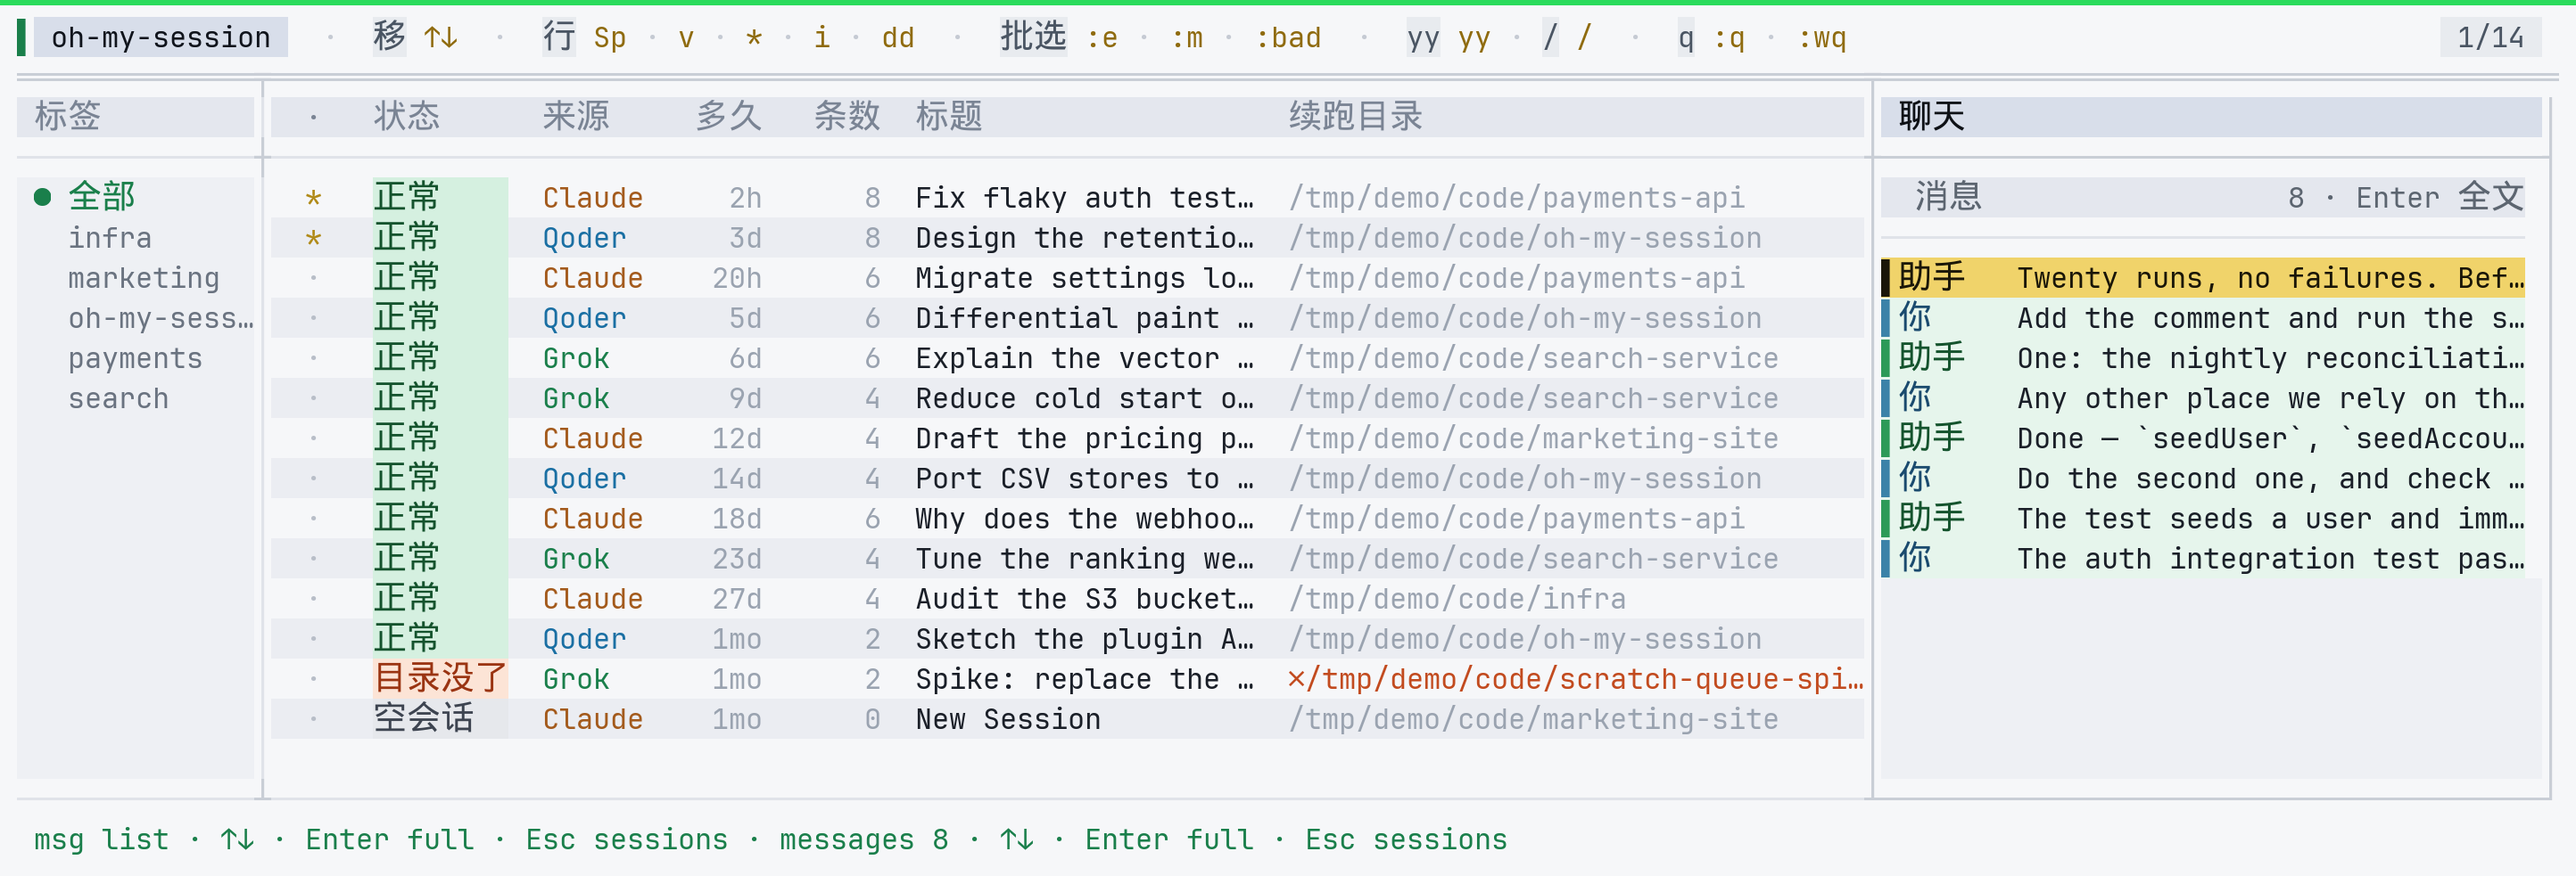
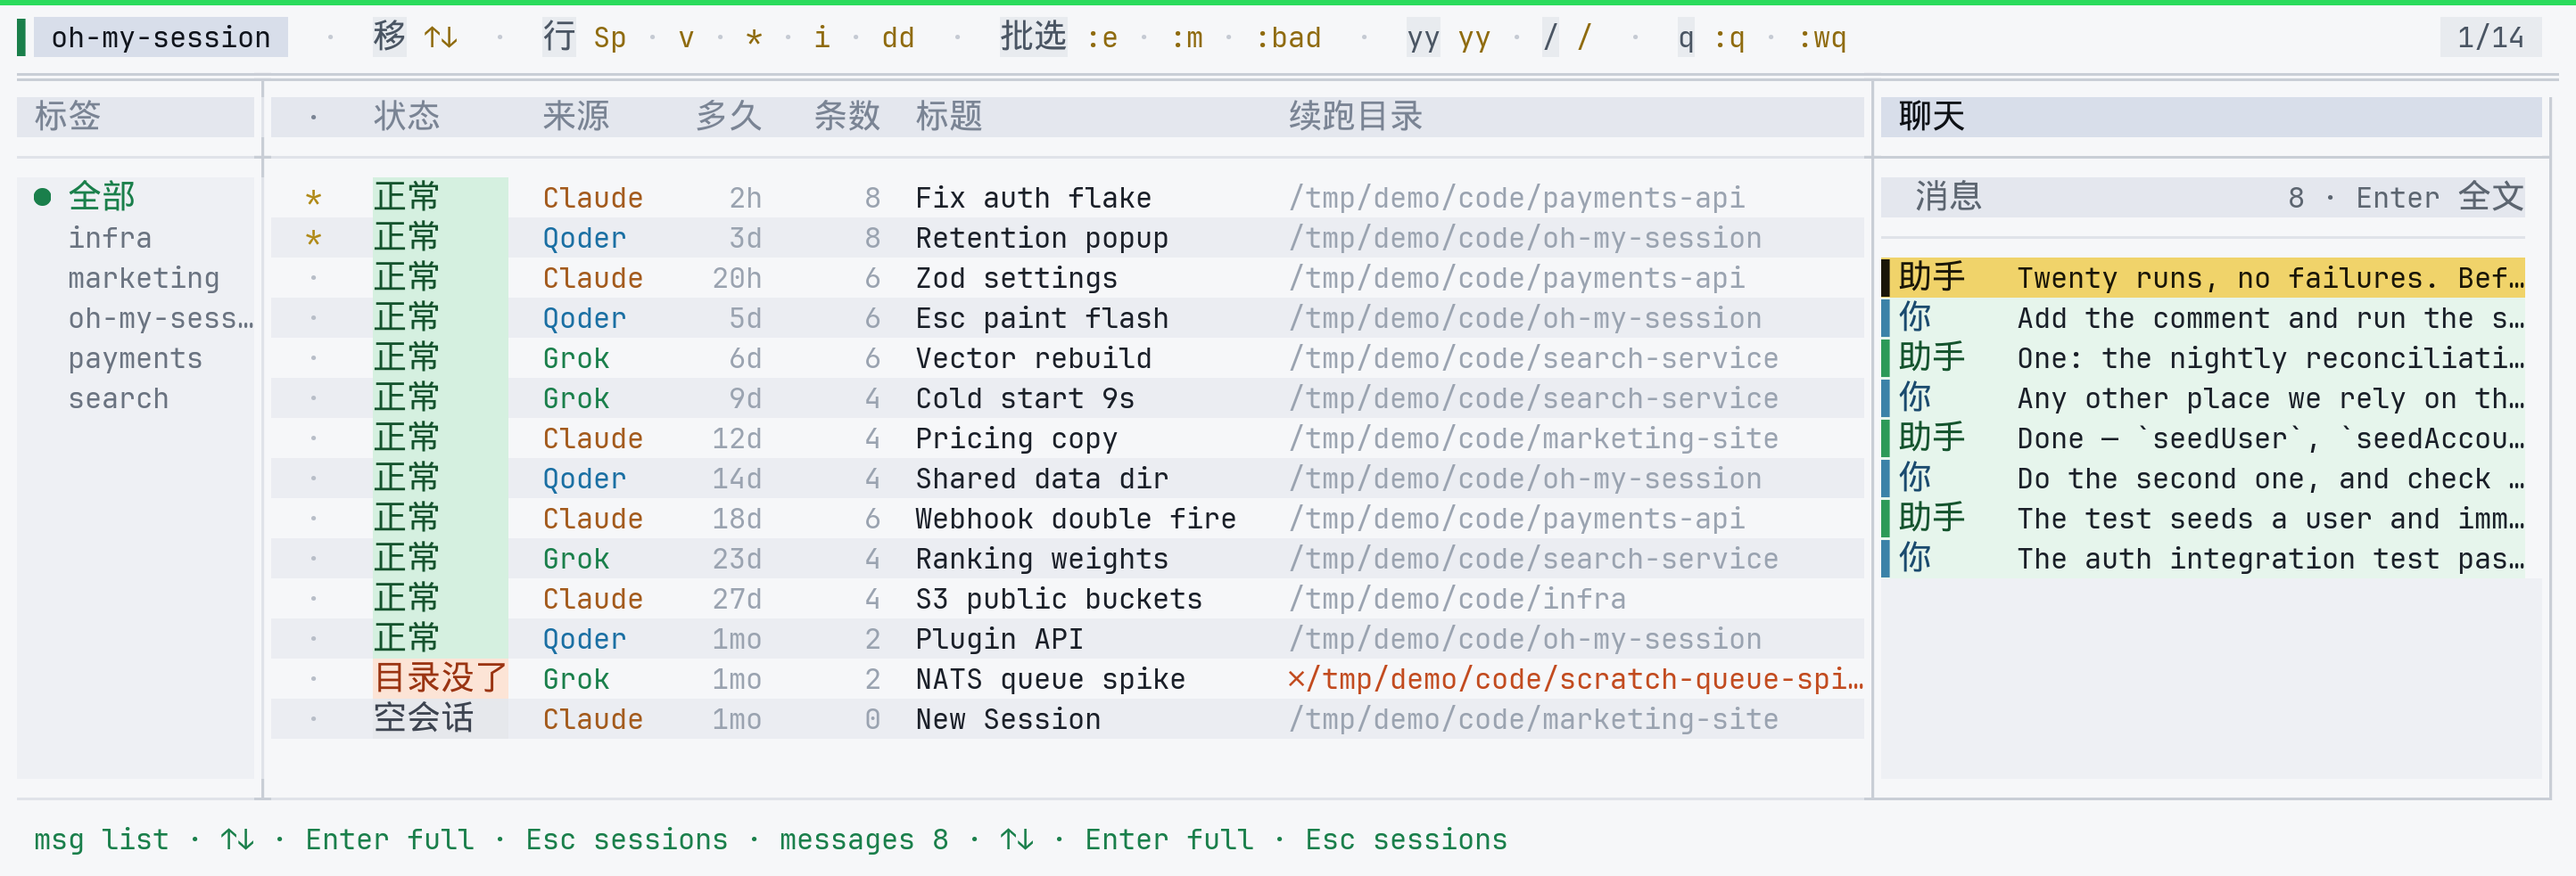
fix: rename caret move, distinct select mark, README polish
- Rename mode: left/right (and Home/End) move caret in TITLE
- Multi-select / visual mark uses # so pin * is unambiguous
- Shorter demo titles, /resume copy, Chinese README screenshots

Changed region(s): [[0.3428, 0.4883, 0.4986, 0.7935], [0.3428, 0.2136, 0.4986, 0.4578]]

diff --git a/src/tui/rawApp.ts b/src/tui/rawApp.ts
@@ -83,7 +83,7 @@ export interface RawTuiOptions {
  * share remaining width with caps so TITLE does not starve the path.
  */
 const LC = {
-  mark: 2, // cursor ▌ + multi *
+  mark: 2, // cursor ▌ + multi # (not * — * is pin/star only)
   star: 3, // * / · cell (ASCII-safe; ★/☆ missing in many mono fonts)
   /** Gaps (min floors, display cols) */
   gs: 1, // star → STATUS (icon column, 1 is enough)
@@ -429,6 +429,8 @@ export async function runRawTui(
   /** i — rename current session title (insert mode) */
   let renameMode = false;
   let renameBuf = "";
+  /** Cursor index into [...renameBuf] (grapheme units via string spread). */
+  let renamePos = 0;
   /** Title when edit started — used only if empty commit */
   let renameOrig = "";
   let cursor = 0;
@@ -630,32 +632,58 @@ export async function runRawTui(
   }
 
   /**
-   * TITLE cell while renaming: show buffer + caret in-cell (not footer).
-   * Keeps the caret end visible when text is wider than the column.
+   * TITLE cell while renaming: buffer with in-cell caret at renamePos.
+   * Scrolls so the caret stays visible when text is wider than the column.
    */
   function titleRenameCell(width: number): string {
     const caret = "▌";
-    const text = renameBuf.replace(/\s+/g, " ");
-    const full = text + caret;
+    const chars = [...renameBuf];
+    const pos = Math.max(0, Math.min(renamePos, chars.length));
+    const full =
+      chars.slice(0, pos).join("") + caret + chars.slice(pos).join("");
     if (displayWidth(full) <= width) return padEndWidth(full, width);
 
-    // Keep right side (where caret is); optional leading …
-    let acc = caret;
-    let w = displayWidth(caret);
-    const chars = [...text];
-    for (let i = chars.length - 1; i >= 0; i--) {
-      const ch = chars[i]!;
-      const cw = displayWidth(ch);
-      if (w + cw > width - 1) break;
-      acc = ch + acc;
-      w += cw;
+    // Overflow: grow a window around the caret (prefer keeping caret visible)
+    let left: string[] = [];
+    let right: string[] = [];
+    let used = displayWidth(caret);
+    let li = pos - 1;
+    let ri = pos;
+    // Prefer chars left of caret first (typing at end keeps caret at right edge)
+    while (li >= 0) {
+      const d = displayWidth(chars[li]!);
+      if (used + d > width) break;
+      left.unshift(chars[li]!);
+      used += d;
+      li--;
     }
-    if (displayWidth(acc) < width) {
-      // room for ellipsis prefix when truncated from left
-      const room = width - displayWidth(acc);
-      if (room >= 1) acc = "…" + acc;
+    while (ri < chars.length) {
+      const d = displayWidth(chars[ri]!);
+      if (used + d > width) break;
+      right.push(chars[ri]!);
+      used += d;
+      ri++;
     }
-    return padEndWidth(acc, width);
+    // If nothing fit on the left but we skipped left chars, mark with …
+    let s = left.join("") + caret + right.join("");
+    if (li >= 0) {
+      // free 1 col for leading …
+      while (left.length && displayWidth("…" + left.join("") + caret + right.join("")) > width) {
+        left.shift();
+      }
+      const body = left.join("") + caret + right.join("");
+      s = displayWidth("…" + body) <= width ? "…" + body : body;
+    } else if (ri < chars.length) {
+      while (
+        right.length &&
+        displayWidth(left.join("") + caret + right.join("") + "…") > width
+      ) {
+        right.pop();
+      }
+      const body = left.join("") + caret + right.join("");
+      s = displayWidth(body + "…") <= width ? body + "…" : body;
+    }
+    return padEndWidth(s, width);
   }
 
   function buildListRow(abs: number, isCursor: boolean): string {
@@ -668,15 +696,15 @@ export async function runRawTui(
     const isMulti = multiSelect.has(sessionKey(s));
     const starred = isStarred(s);
     const editing = renameMode && isCursor;
-    // mark: cursor + multi only (star has its own column)
+    // mark: cursor ▌ + multi # only (* reserved for pin/star column)
     const markPlain = isCursor
       ? isMulti
-        ? "▌*"
+        ? "▌#"
         : "▌ "
       : isMulti
-        ? " *"
+        ? " #"
         : "  ";
-    // star: * filled / · empty — avoid ★/☆ (missing glyph → tofu in many mono faces)
+    // pin/star: * filled / · empty — avoid ★/☆ (missing glyph → tofu in many mono faces)
     const starPlain = padEndWidth(starred ? "*" : "·", LC.star);
     const gapStar = " ".repeat(LC.gs);
     const statusPlain = padEndWidth(healthLabel(h), LC.status);
@@ -2786,6 +2814,7 @@ export async function runRawTui(
     renameMode = true;
     renameOrig = s.title;
     renameBuf = s.title;
+    renamePos = [...renameBuf].length; // caret at end
     statusLine = "";
     paintRenameLive();
   }
@@ -2800,6 +2829,7 @@ export async function runRawTui(
     const title = renameBuf.replace(/\s+/g, " ").trim();
     renameMode = false;
     renameBuf = "";
+    renamePos = 0;
     renameOrig = "";
 
     if (!s) {
@@ -3128,13 +3158,61 @@ export async function runRawTui(
           exitRenameKeep();
           return;
         }
+        // ← / → move caret (and Home / End)
+        if (key.name === "left") {
+          renamePos = Math.max(0, renamePos - 1);
+          paintRenameLive();
+          return;
+        }
+        if (key.name === "right") {
+          renamePos = Math.min([...renameBuf].length, renamePos + 1);
+          paintRenameLive();
+          return;
+        }
+        if (key.name === "home") {
+          renamePos = 0;
+          paintRenameLive();
+          return;
+        }
+        if (key.name === "end") {
+          renamePos = [...renameBuf].length;
+          paintRenameLive();
+          return;
+        }
         if (key.name === "backspace") {
-          renameBuf = renameBuf.slice(0, -1);
+          if (renamePos > 0) {
+            const chars = [...renameBuf];
+            chars.splice(renamePos - 1, 1);
+            renameBuf = chars.join("");
+            renamePos--;
+          }
+          paintRenameLive();
+          return;
+        }
+        // Forward delete (fn-backspace / Del)
+        if (key.name === "delete") {
+          const chars = [...renameBuf];
+          if (renamePos < chars.length) {
+            chars.splice(renamePos, 1);
+            renameBuf = chars.join("");
+          }
           paintRenameLive();
           return;
         }
         if (key.ctrl && key.name === "u") {
           renameBuf = "";
+          renamePos = 0;
+          paintRenameLive();
+          return;
+        }
+        // Ctrl-A / Ctrl-E — line start / end (readline habit)
+        if (key.ctrl && (key.name === "a" || str === "\x01")) {
+          renamePos = 0;
+          paintRenameLive();
+          return;
+        }
+        if (key.ctrl && (key.name === "e" || str === "\x05")) {
+          renamePos = [...renameBuf].length;
           paintRenameLive();
           return;
         }
@@ -3142,7 +3220,11 @@ export async function runRawTui(
           return;
         }
         if (str && !key.ctrl && !key.meta && str >= " ") {
-          renameBuf += str;
+          const chars = [...renameBuf];
+          const insert = [...str];
+          chars.splice(renamePos, 0, ...insert);
+          renameBuf = chars.join("");
+          renamePos += insert.length;
           paintRenameLive();
           return;
         }

diff --git a/src/lib/i18n.ts b/src/lib/i18n.ts
@@ -336,9 +336,9 @@ export function helpGroups(): ReadonlyArray<{
         title: t("help.g.row"),
         keys: [
           ["Enter", "右侧打开聊天（近→远）"],
-          ["Space", "选中 / 取消当前行"],
-          ["v", "可视选择（↑↓ 扩展范围，再按 v 结束）"],
-          ["*", "置顶 / 取消 — 阻止 dd"],
+          ["Space", "选中 / 取消当前行（行首 #）"],
+          ["v", "可视选择（↑↓ 扩展范围，再按 v 结束；行首 #）"],
+          ["*", "置顶 / 取消（* 列）— 阻止 dd"],
           ["i", "内联改标题（写入本地 CSV）"],
           ["dd", "标记删除（置顶跳过；:wq 执行）"],
           ["u", "撤销最近删除标记"],

diff --git a/d/ui-tui.md b/d/ui-tui.md
@@ -65,8 +65,8 @@ gutter 列画 │；表头行接缝用 ┬
 
 | 列 | 显示宽 | 间距下限（后） | 内容 |
 |----|--------|----------------|------|
-| mark | 2 | — | 光标 `▌`；片选 `*` |
-| star | 3 | 1 | 星标 `*` / `·`（不用 ★/☆，避免等宽字体缺字成方框） |
+| mark | 2 | — | 光标 `▌`；选中 / 可视片选 `#`（不用 `*`，避免与置顶混淆） |
+| star | 3 | 1 | 置顶 `*` / 未置顶 `·`（不用 ★/☆，避免等宽字体缺字成方框） |
 | 状态 | 8 | **2** | 色块：OK / Empty / Missing |
 | 来源 | 6 | **2** | `Grok` / `Qoder` / … |
 | 多久 | 5 | **2** | 右对齐：`2s` `30m` `5d` `1mo` |
@@ -145,9 +145,9 @@ gutter 列画 │；表头行接缝用 ┬
 | `↑↓` | 下 / 上（焦点在列表 / 标签栏 / 聊天详情时各自滚动） |
 | **`Enter`** | **打开对话**：右侧栏显示该会话 transcript，**近→远**（最新在上）；焦点切到 detail |
 | `gg` / `G` | 列表首 / 末 |
-| **`Space`** | **选中**：切换当前行 multi-select（行首 `*`；脑门 `sel:N`） |
+| **`Space`** | **选中**：切换当前行 multi-select（行首 `#`；脑门 `sel:N`） |
 | **`v`** | **可视选择**（vim）：从当前行开始，↑↓ 扩展范围；再 `v` 结束（保留选中）；`Esc` 先结束可视再清空 |
-| **`*`** | **置顶 / 取消**：CSV 持久化；**置顶**；**禁止 `dd`**，需先 `*` 取消置顶 |
+| **`*`** | **置顶 / 取消**：CSV 持久化；行上 `*` 标记；**禁止 `dd`**，须先取消置顶 |
 | **`i`** | **Rename**：TITLE 内联编辑；**Esc** / **Enter** 写 CSV |
 | `dd` | **标记删除**（片选批量 / 当前行）；**跳过已星标**并提示 |
 | `u` | 撤销最近一次删除标记（恢复列表；多次 `dd` 可逐条 undo） |

diff --git a/README.md b/README.md
@@ -1,8 +1,10 @@
 # oh-my-session
 
-**Stop digging through `~/.claude` / `~/.grok` for half-finished agent chats.**
+**Stop scrolling a long conversation list from `/resume` to find last week's half-finished one.**
 
-One table for Grok · Qoder · Claude sessions: resume health, project path, `yy` to copy the command, Enter to re-read the chat.
+Stop guessing whether that was Qoder, Grok, or Claude Code — and stop hunting which directory you were in.
+
+**One tool. All sessions. Sorted.** Copy the resume command with `yy`. Keys feel like Vim.
 
 [![npm](https://img.shields.io/npm/v/oh-my-session.svg)](https://www.npmjs.com/package/oh-my-session)
 [![License: MIT](https://img.shields.io/badge/license-MIT-green.svg)](./LICENSE)
@@ -15,7 +17,7 @@ npm install -g oh-my-session
 oms
 ```
 
-Agents **auto-delete** old sessions (Claude ~30 days by default). `:retention` shows the config and can fix it for you.
+Agents also **auto-delete** old sessions (Claude ~30 days by default). `:retention` shows the config and can fix it for you.
 
 ---
 

diff --git a/docs/README_zh-CN.md b/docs/README_zh-CN.md
@@ -1,8 +1,10 @@
 # oh-my-session
 
-**别再翻 `~/.claude` / `~/.grok` 找半截对话了。**
+**别再对着 `/resume` 翻那份长对话记录列表，找上周聊到一半的那次了。**
 
-一张表管住 Grok · Qoder · Claude 的本地会话：能不能续跑、去哪个目录、`yy` 复制命令、Enter 回看聊天。
+也别硬想：那次是 Qoder、Grok 还是 Claude Code？更别猜当时在哪个目录里开的。
+
+**一个工具，全部整理好。** `yy` 复制续跑命令，快捷键跟 Vim 一样顺手。
 
 [![npm](https://img.shields.io/npm/v/oh-my-session.svg)](https://www.npmjs.com/package/oh-my-session)
 [![License: MIT](https://img.shields.io/badge/license-MIT-green.svg)](../LICENSE)
@@ -15,7 +17,7 @@ npm install -g oh-my-session
 oms
 ```
 
-Agent 默认会**自动删旧会话**（Claude 约 30 天）。`:retention` 一键看清配置并帮你改掉。
+Agent 还会**偷偷删旧会话**（Claude 默认约 30 天）。用 `:retention` 看清配置，确认后一键改掉。
 
 ---
 
